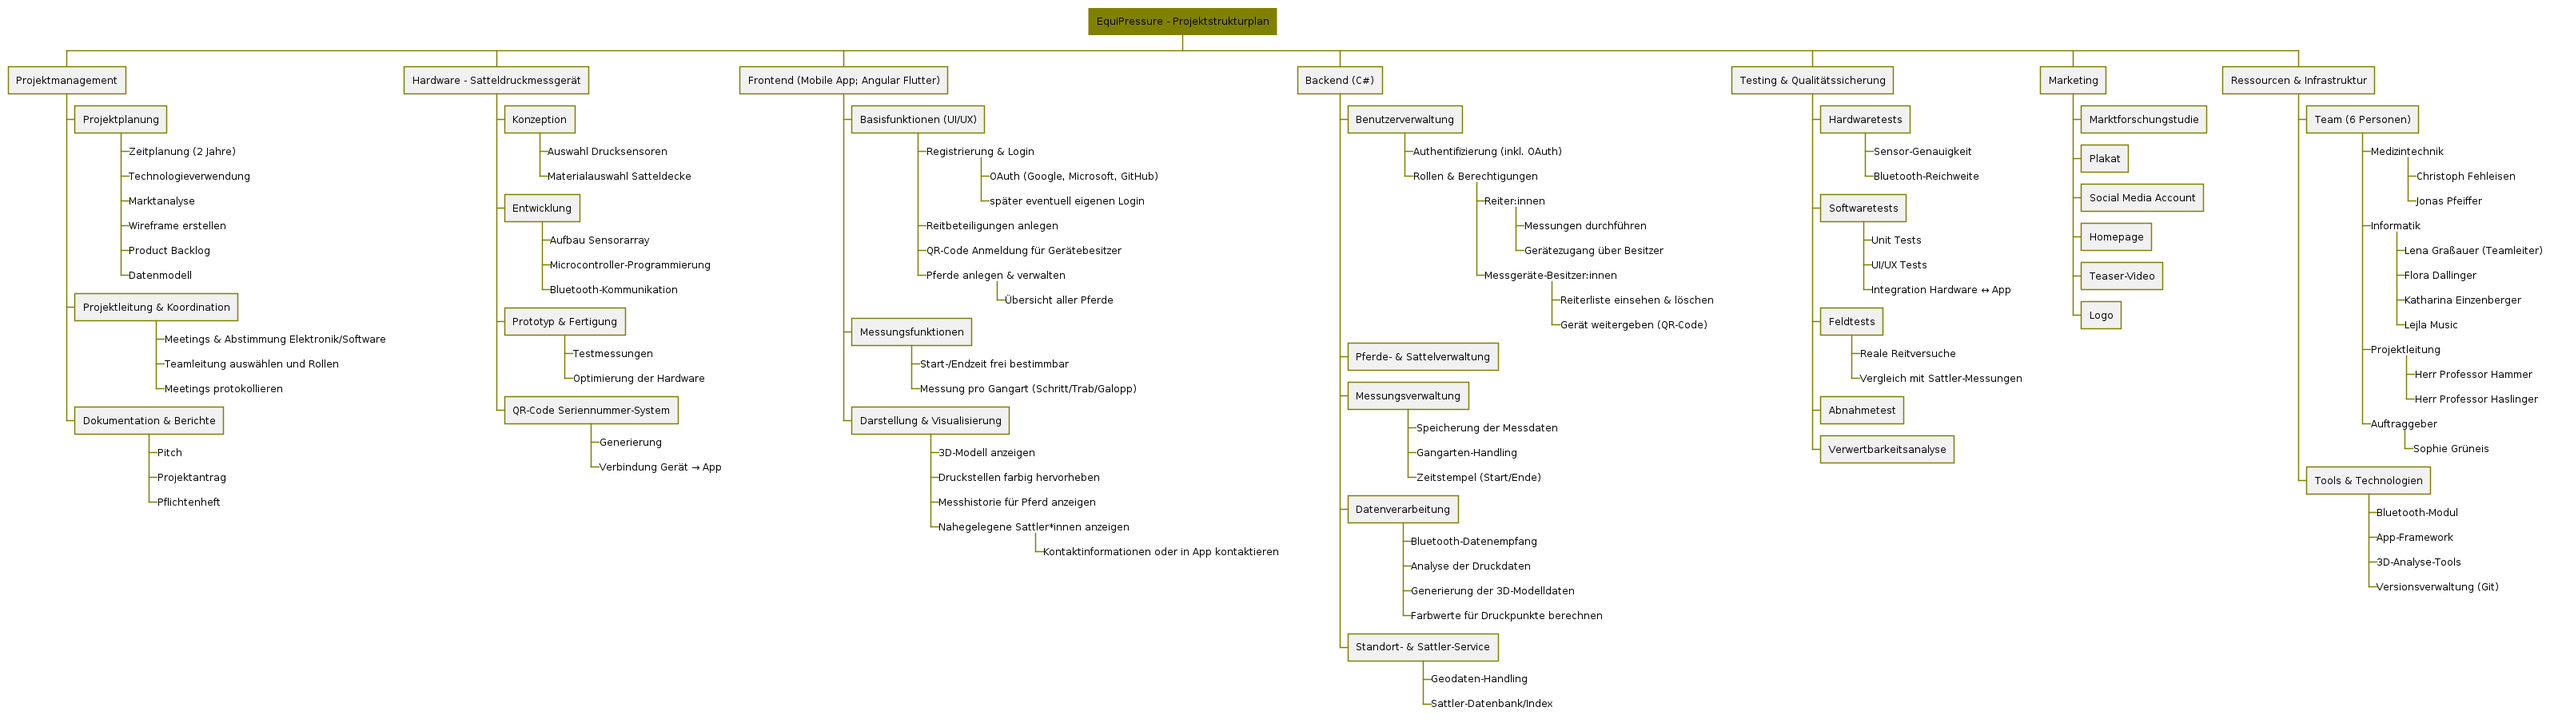
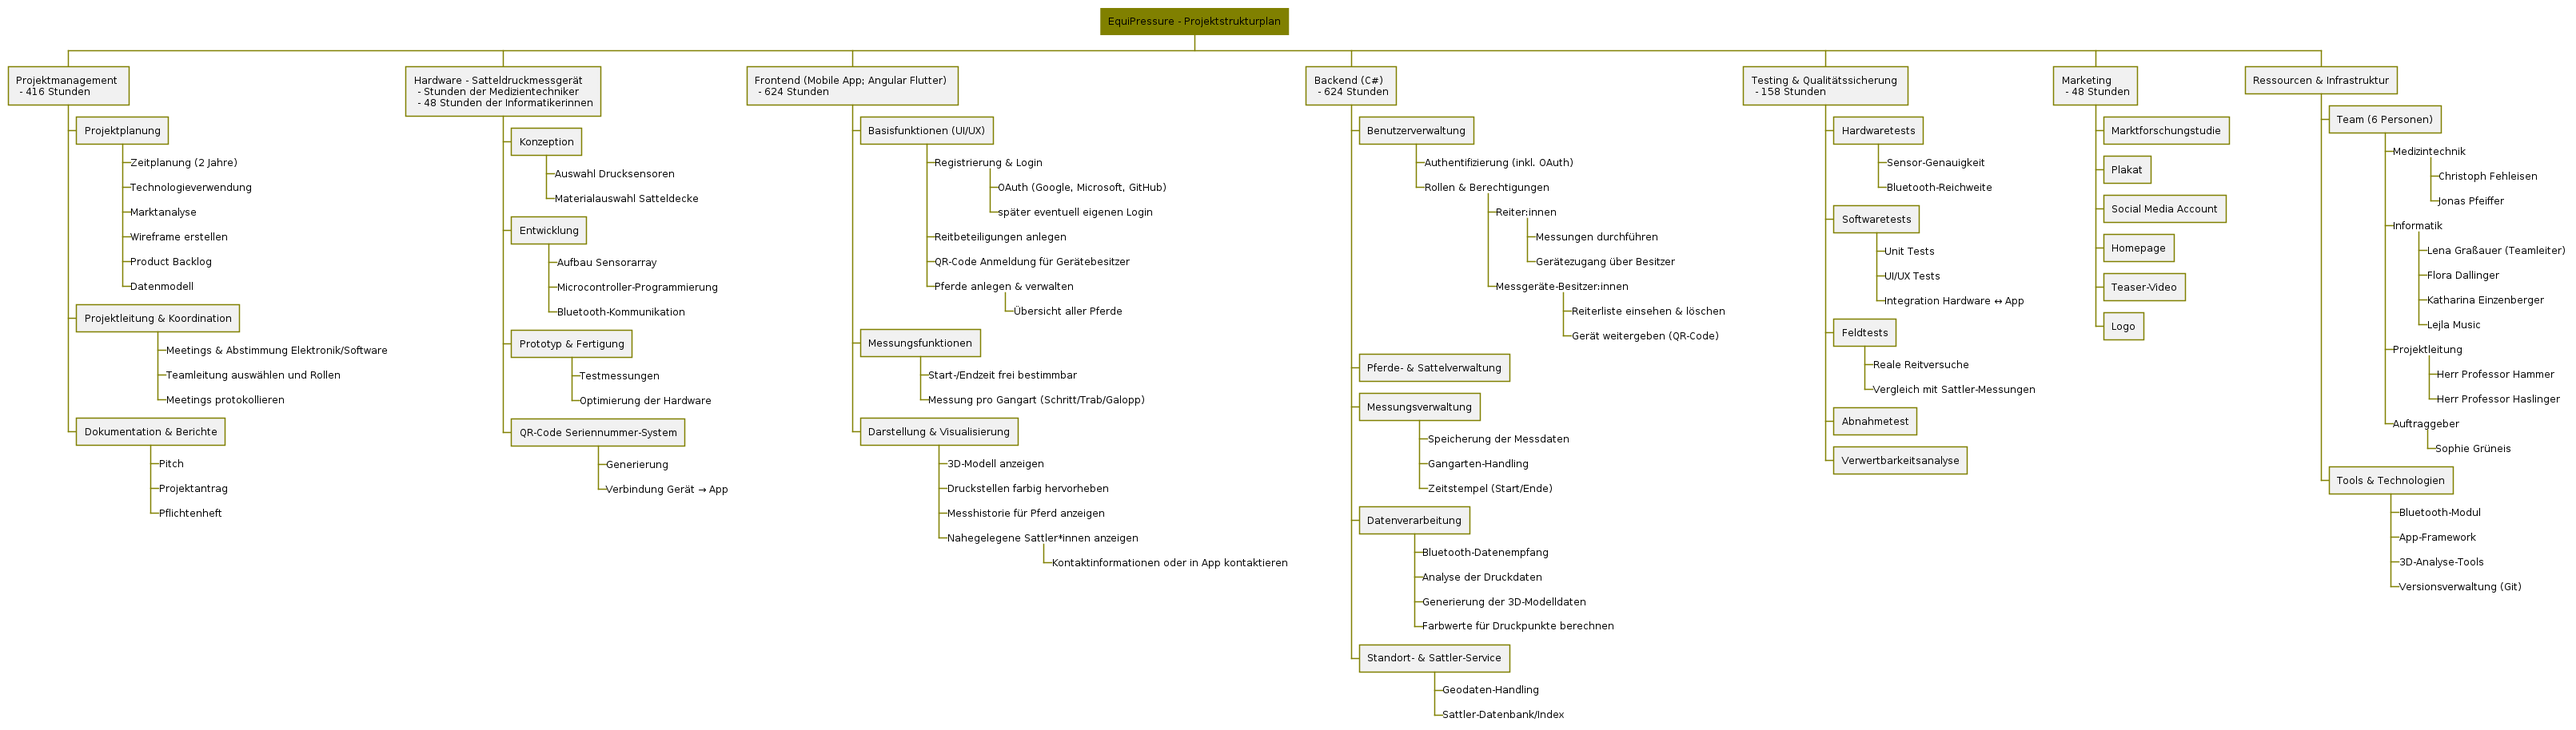
Deploying to gh-pages from @ syp-equipressure/equipressure@3410ed50f224b4804e0b2f66f59f4ee8b929e012 🚀

Changed region(s): [[0.0, 0.0, 0.9915, 0.84], [0.5268, 0.4667, 0.6197, 0.9956], [0.062, 0.6533, 0.093, 0.7156]]

diff --git a/psp.html b/psp.html
@@ -453,6 +453,7 @@ body.book #toc,body.book #preamble,body.book h1.sect0,body.book .sect1>h2{page-b
 <li><a href="#_zeitplanung">1. Zeitplanung</a>
 <ul class="sectlevel2">
 <li><a href="#_ziel">1.1. Ziel</a></li>
+<li><a href="#_zeitaufteilung">1.2. Zeitaufteilung</a></li>
 </ul>
 </li>
 </ul>
@@ -472,12 +473,109 @@ ca 60 Wochen<br></p>
 <h3 id="_ziel"><a class="anchor" href="#_ziel"></a>1.1. Ziel</h3>
 <div class="paragraph">
 <p>8 Personenstunden pro Woche<br>
-&#8658; 480 Studen pro Person Projektarbeit<br>
+&#8658; 480 Stunden pro Person Projektarbeit<br>
 &#8658; 1920 Gesamtstunden für unser Projekt</p>
+</div>
+</div>
+<div class="sect2">
+<h3 id="_zeitaufteilung"><a class="anchor" href="#_zeitaufteilung"></a>1.2. Zeitaufteilung</h3>
+<div class="ulist">
+<ul>
+<li>
+<p>Projektmanagement</p>
+<div class="ulist">
+<ul>
+<li>
+<p>416 Stunden</p>
+</li>
+<li>
+<p>Mitte September bis Ende Dezember 2025</p>
+</li>
+</ul>
+</div>
+</li>
+<li>
+<p>Hardware</p>
+<div class="ulist">
+<ul>
+<li>
+<p>alle Stunden der Medizintechniker</p>
+</li>
+<li>
+<p>48 Stunden der Informatiker</p>
+</li>
+<li>
+<p>3 Wochen um Schnittstellen zu definieren und Verbindung aufzubauen</p>
+</li>
+</ul>
+</div>
+</li>
+<li>
+<p>Frontend</p>
+<div class="ulist">
+<ul>
+<li>
+<p>624 Stunden</p>
+</li>
+<li>
+<p>Lejla Music und Lena Graßauer</p>
+</li>
+<li>
+<p>Jänner 2026 - Juni 2026</p>
+</li>
+<li>
+<p>September 2026 - Dezember 2026</p>
+</li>
+</ul>
+</div>
+</li>
+<li>
+<p>Backend</p>
+<div class="ulist">
+<ul>
+<li>
+<p>624 Stunden</p>
+</li>
+<li>
+<p>Flora Dallinger und Katharina Einzenberger</p>
+</li>
+<li>
+<p>selber Zeitraum wie das Frontend</p>
+</li>
+</ul>
+</div>
+</li>
+<li>
+<p>Testing &amp; Qualitätssicherung</p>
+<div class="ulist">
+<ul>
+<li>
+<p>158 Stunden</p>
+</li>
+<li>
+<p>ca. 5 Wochen um das Produkt zu verbessern und zu testen</p>
+</li>
+</ul>
+</div>
+</li>
+<li>
+<p>Marketing</p>
+<div class="ulist">
+<ul>
+<li>
+<p>48 Stunden</p>
+</li>
+<li>
+<p>3 Wochen, können auch verteilt über die 2 Jahre stattfinden, immer wieder mal</p>
+</li>
+</ul>
+</div>
+</li>
+</ul>
 </div>
 <div class="imageblock">
 <div class="content">
-<img src="images/equi-pressure.png" alt="equi pressure" width="3195" height="900">
+<img src="images/equi-pressure.png" alt="equi pressure" width="3222" height="914">
 </div>
 </div>
 </div>
@@ -486,7 +584,7 @@ ca 60 Wochen<br></p>
 </div>
 <div id="footer">
 <div id="footer-text">
-Last updated 2025-12-09 08:27:21 UTC
+Last updated 2025-12-09 09:22:05 UTC
 </div>
 </div>
 </body>

diff --git a/pflichtenheft.html b/pflichtenheft.html
@@ -587,7 +587,7 @@ body.book #toc,body.book #preamble,body.book h1.sect0,body.book .sect1>h2{page-b
 <div id="footer">
 <div id="footer-text">
 Version 1.0.0<br>
-Last updated 2025-12-09 08:27:21 UTC
+Last updated 2025-12-09 09:22:05 UTC
 </div>
 </div>
 </body>

diff --git a/projektantrag.html b/projektantrag.html
@@ -532,7 +532,7 @@ Zeitlich wird mit einer Projektlänge von <strong>2 Jahren</strong> gerechnet.</
 <div id="footer">
 <div id="footer-text">
 Version 1.0<br>
-Last updated 2025-12-09 08:27:21 UTC
+Last updated 2025-12-09 09:22:05 UTC
 </div>
 </div>
 </body>

diff --git a/projektauftrag.html b/projektauftrag.html
@@ -457,7 +457,7 @@ body.book #toc,body.book #preamble,body.book h1.sect0,body.book .sect1>h2{page-b
 </div>
 <div id="footer">
 <div id="footer-text">
-Last updated 2025-12-09 08:27:21 UTC
+Last updated 2025-12-09 09:22:05 UTC
 </div>
 </div>
 </body>

diff --git a/swot.html b/swot.html
@@ -568,7 +568,7 @@ body.book #toc,body.book #preamble,body.book h1.sect0,body.book .sect1>h2{page-b
 </div>
 <div id="footer">
 <div id="footer-text">
-Last updated 2025-12-09 08:27:21 UTC
+Last updated 2025-12-09 09:22:05 UTC
 </div>
 </div>
 </body>

diff --git a/user-stories.html b/user-stories.html
@@ -490,7 +490,7 @@ body.book #toc,body.book #preamble,body.book h1.sect0,body.book .sect1>h2{page-b
 </div>
 <div id="footer">
 <div id="footer-text">
-Last updated 2025-12-09 08:27:21 UTC
+Last updated 2025-12-09 09:22:05 UTC
 </div>
 </div>
 </body>

diff --git a/minutes-of-meeting.html b/minutes-of-meeting.html
@@ -1967,7 +1967,7 @@ Anzahl der bereits durchgeführten Messungen anzeigen beim Pferd</p>
 </div>
 <div id="footer">
 <div id="footer-text">
-Last updated 2025-12-09 08:27:21 UTC
+Last updated 2025-12-09 09:22:05 UTC
 </div>
 </div>
 </body>
